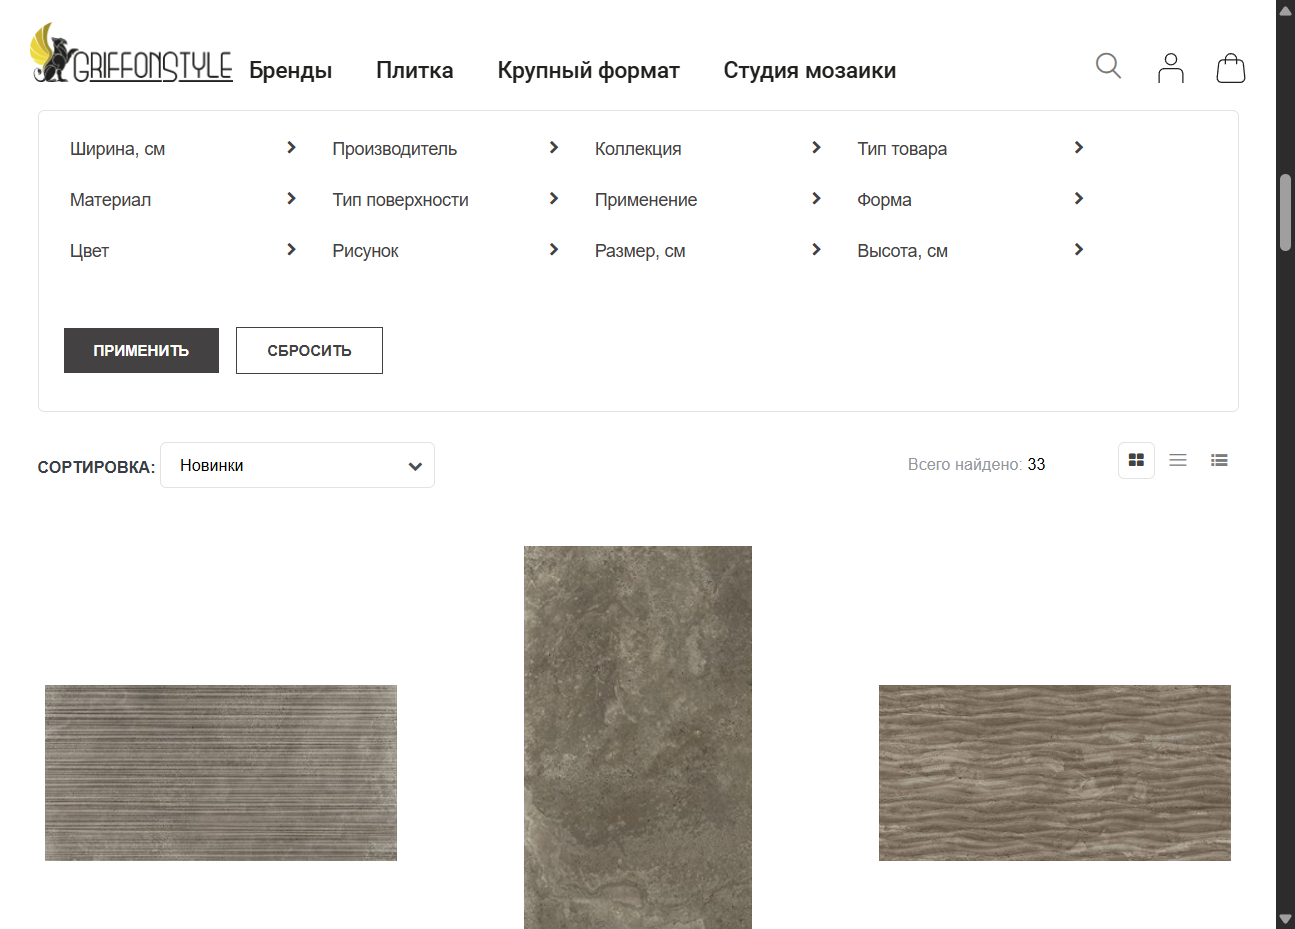
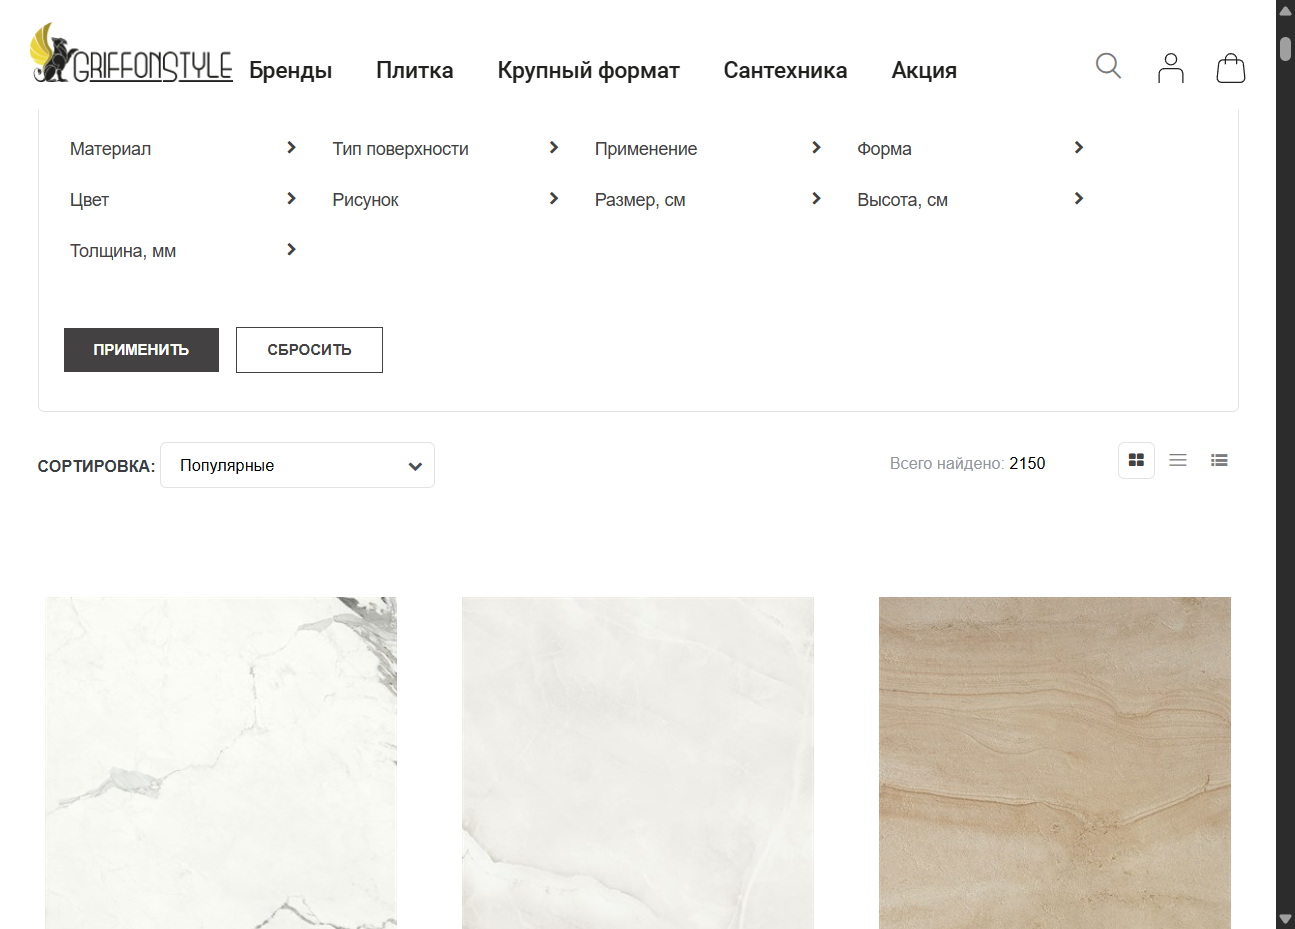
Fif: успешный рефакторинг теста сортировки с учётом зменениний на фронте после редизайна сайта

diff --git a/report.html b/report.html
@@ -7,7 +7,7 @@
   </head>
   <body>
     <h1 id="title">report.html</h1>
-    <p>Report generated on 25-Sep-2026 at 18:07:14 by <a href="https://pypi.python.org/pypi/pytest-html">pytest-html</a>
+    <p>Report generated on 14-Oct-2026 at 12:22:45 by <a href="https://pypi.python.org/pypi/pytest-html">pytest-html</a>
         v4.2.0</p>
     <div id="environment-header">
       <h2>Environment</h2>
@@ -62,7 +62,7 @@
         <h2>Summary</h2>
         <div class="additional-summary prefix">
         </div>
-        <p class="run-count">1 test took 00:00:12.</p>
+        <p class="run-count">1 test took 00:00:18.</p>
         <p class="filter">(Un)check the boxes to filter the results.</p>
         <div class="summary__reload">
           <div class="summary__reload__button hidden" onclick="location.reload()">
@@ -110,7 +110,7 @@
       </thead>
     </table>
   <footer>
-    <div id="data-container" data-jsonblob="{&#34;environment&#34;: {&#34;Python&#34;: &#34;3.13.2&#34;, &#34;Platform&#34;: &#34;Windows-11-10.0.22621-SP0&#34;, &#34;Packages&#34;: {&#34;pytest&#34;: &#34;9.1.1&#34;, &#34;pluggy&#34;: &#34;1.6.0&#34;}, &#34;Plugins&#34;: {&#34;allure-pytest&#34;: &#34;2.16.0&#34;, &#34;html&#34;: &#34;4.2.0&#34;, &#34;metadata&#34;: &#34;3.1.1&#34;}, &#34;JAVA_HOME&#34;: &#34;C:\\Users\\Hidden\\scoop\\apps\\openjdk\\current&#34;}, &#34;tests&#34;: {&#34;tests/unit/test_catalog_sorting.py::test_catalog_sorting_dropdown&#34;: [{&#34;extras&#34;: [], &#34;result&#34;: &#34;Passed&#34;, &#34;testId&#34;: &#34;tests/unit/test_catalog_sorting.py::test_catalog_sorting_dropdown&#34;, &#34;duration&#34;: &#34;00:00:12&#34;, &#34;resultsTableRow&#34;: [&#34;&lt;td class=\&#34;col-result\&#34;&gt;Passed&lt;/td&gt;&#34;, &#34;&lt;td class=\&#34;col-testId\&#34;&gt;tests/unit/test_catalog_sorting.py::test_catalog_sorting_dropdown&lt;/td&gt;&#34;, &#34;&lt;td class=\&#34;col-duration\&#34;&gt;00:00:12&lt;/td&gt;&#34;, &#34;&lt;td class=\&#34;col-links\&#34;&gt;&lt;/td&gt;&#34;], &#34;log&#34;: &#34;No log output captured.&#34;}]}, &#34;renderCollapsed&#34;: [&#34;passed&#34;], &#34;initialSort&#34;: &#34;result&#34;, &#34;title&#34;: &#34;report.html&#34;}"></div>
+    <div id="data-container" data-jsonblob="{&#34;environment&#34;: {&#34;Python&#34;: &#34;3.13.2&#34;, &#34;Platform&#34;: &#34;Windows-11-10.0.22621-SP0&#34;, &#34;Packages&#34;: {&#34;pytest&#34;: &#34;9.1.1&#34;, &#34;pluggy&#34;: &#34;1.6.0&#34;}, &#34;Plugins&#34;: {&#34;allure-pytest&#34;: &#34;2.16.0&#34;, &#34;html&#34;: &#34;4.2.0&#34;, &#34;metadata&#34;: &#34;3.1.1&#34;}, &#34;JAVA_HOME&#34;: &#34;C:\\Users\\Hidden\\scoop\\apps\\openjdk\\current&#34;}, &#34;tests&#34;: {&#34;tests/unit/test_catalog_sorting.py::test_catalog_sorting_dropdown&#34;: [{&#34;extras&#34;: [], &#34;result&#34;: &#34;Passed&#34;, &#34;testId&#34;: &#34;tests/unit/test_catalog_sorting.py::test_catalog_sorting_dropdown&#34;, &#34;duration&#34;: &#34;00:00:18&#34;, &#34;resultsTableRow&#34;: [&#34;&lt;td class=\&#34;col-result\&#34;&gt;Passed&lt;/td&gt;&#34;, &#34;&lt;td class=\&#34;col-testId\&#34;&gt;tests/unit/test_catalog_sorting.py::test_catalog_sorting_dropdown&lt;/td&gt;&#34;, &#34;&lt;td class=\&#34;col-duration\&#34;&gt;00:00:18&lt;/td&gt;&#34;, &#34;&lt;td class=\&#34;col-links\&#34;&gt;&lt;/td&gt;&#34;], &#34;log&#34;: &#34;----------------------------- Captured stdout call -----------------------------\n\u0438\u0449\u0443 \u044d\u043b\u0435\u043c\u0435\u043d\u0442 \u041a\u0440\u0443\u043f\u043d\u044b\u0439 \u0444\u043e\u0440\u043c\u0430\u0442\n\u043d\u0430\u0448\u0451\u043b \u044d\u043b\u0435\u043c\u0435\u043d\u0442 \u041a\u0440\u0443\u043f\u043d\u044b\u0439 \u0444\u043e\u0440\u043c\u0430\u0442\n\u041f\u0440\u043e\u0432\u0435\u0440\u043a\u0430 \u043d\u0430 \u043a\u043b\u0438\u043a \u041a\u0440\u0443\u043f\u043d\u044b\u0439 \u0444\u043e\u0440\u043c\u0430\u0442\n\u041a\u043b\u0438\u043a\u043d\u0443\u043b \u043d\u0430 \u044d\u043b\u0435\u043c\u0435\u043d\u0442 \u041a\u0440\u0443\u043f\u043d\u044b\u0439 \u0444\u043e\u0440\u043c\u0430\u0442\n\u041f\u0435\u0440\u0435\u0445\u043e\u0434 \u043d\u0430 \u0432\u043a\u043b\u0430\u0434\u043a\u0443 &amp;#x27;\u041a\u0440\u0443\u043f\u043d\u044b\u0439 \u0444\u043e\u0440\u043c\u0430\u0442&amp;#x27; \u0432\u044b\u043f\u043e\u043b\u043d\u0435\u043d\n\u0438\u0449\u0443 \u044d\u043b\u0435\u043c\u0435\u043d\u0442 .catalog-title h1\n\u043d\u0430\u0448\u0451\u043b \u044d\u043b\u0435\u043c\u0435\u043d\u0442 .catalog-title h1\n\u0438\u0449\u0443 \u044d\u043b\u0435\u043c\u0435\u043d\u0442 Sorting\n\u043d\u0430\u0448\u0451\u043b \u044d\u043b\u0435\u043c\u0435\u043d\u0442 Sorting\n\u041f\u0440\u043e\u043a\u0440\u0443\u0442\u043a\u0430 \u043a \u044d\u043b\u0435\u043c\u0435\u043d\u0442\u0443 \u0441\u043e\u0440\u0442\u0438\u0440\u043e\u0432\u043a\u0438\n\u0438\u0449\u0443 \u044d\u043b\u0435\u043c\u0435\u043d\u0442 Sorting\n\u043d\u0430\u0448\u0451\u043b \u044d\u043b\u0435\u043c\u0435\u043d\u0442 Sorting\n\u041f\u0440\u043e\u0432\u0435\u0440\u043a\u0430 \u043d\u0430 select Sorting\n\u0423\u0441\u043f\u0435\u0448\u043d\u043e \u0432\u044b\u0431\u0440\u0430\u043d\u043e \u0437\u043d\u0430\u0447\u0435\u043d\u0438\u0435 DescByPopular \u0432 \u044d\u043b\u0435\u043c\u0435\u043d\u0442\u0435 Sorting\n\u0438\u0449\u0443 \u044d\u043b\u0435\u043c\u0435\u043d\u0442 Sorting\n\u043d\u0430\u0448\u0451\u043b \u044d\u043b\u0435\u043c\u0435\u043d\u0442 Sorting\n\u0422\u0435\u043a\u0443\u0449\u0435\u0435 \u0437\u043d\u0430\u0447\u0435\u043d\u0438\u0435 \u0432 ID=&amp;#x27;Sorting&amp;#x27;: &amp;#x27;DescByPopular&amp;#x27;\n\u0421\u043a\u0440\u0438\u043d\u0448\u043e\u0442 106 \u0441\u043e\u0445\u0440\u0430\u043d\u0451\u043d\n&#34;}]}, &#34;renderCollapsed&#34;: [&#34;passed&#34;], &#34;initialSort&#34;: &#34;result&#34;, &#34;title&#34;: &#34;report.html&#34;}"></div>
     <script>
       (function(){function r(e,n,t){function o(i,f){if(!n[i]){if(!e[i]){var c="function"==typeof require&&require;if(!f&&c)return c(i,!0);if(u)return u(i,!0);var a=new Error("Cannot find module '"+i+"'");throw a.code="MODULE_NOT_FOUND",a}var p=n[i]={exports:{}};e[i][0].call(p.exports,function(r){var n=e[i][1][r];return o(n||r)},p,p.exports,r,e,n,t)}return n[i].exports}for(var u="function"==typeof require&&require,i=0;i<t.length;i++)o(t[i]);return o}return r})()({1:[function(require,module,exports){
 const { getCollapsedCategory, setCollapsedIds } = require('./storage.js')

diff --git a/tests/unit/test_catalog_sorting.py b/tests/unit/test_catalog_sorting.py
@@ -8,25 +8,25 @@ import time
 @allure.story("Проверка работы выпадающего списка сортировки в каталоге")
 def test_catalog_sorting_dropdown(start):
     driver=start
-    with allure.step("Переход на вкладку 'Плитка'"):
-        toClick(driver,By.LINK_TEXT,"Плитка")
-        print("Переход на вкладку 'Плитка' выполнен")
-        time.sleep(1)
+    with allure.step("Переход на вкладку 'Крупный формат'"):
+        toClick(driver,By.LINK_TEXT,"Крупный формат")
+        print("Переход на вкладку 'Крупный формат' выполнен")
+        time.sleep(3)
         actual_url=driver.current_url
-        assert "/podbor-plitki" in actual_url
+        assert "/krupnyi-format" in actual_url
         h1_title=toFind(driver,By.CSS_SELECTOR,".catalog-title h1")
         assert h1_title.is_displayed()==True
-    with allure.step("Переход к сортировке и выбору 'Новинки' в селекторе"):
+    with allure.step("Переход к сортировке и выбору 'Популярные' в селекторе"):
         sorting_selector=toFind(driver,By.ID,"Sorting")
         print("Прокрутка к элементу сортировки")
         driver.execute_script("arguments[0].scrollIntoView({block: 'center'});", sorting_selector)
-        toSelect(driver,By.ID,"Sorting","DescByAddingDate")
+        toSelect(driver,By.ID,"Sorting","DescByPopular")
         time.sleep(2)
     with allure.step("Проверка что значение в селекторе успешно изменилось"):
         sorting_selector=toFind(driver,By.ID,"Sorting")
         actual_value=sorting_selector.get_attribute("value")
         print(f"Текущее значение в ID='Sorting': '{actual_value}'")
-        assert actual_value=="DescByAddingDate", \
+        assert actual_value=="DescByPopular", \
             f"Ошибка! Сортировка не переключилась на 'Новинки'. Получено: '{actual_value}'"
         assert getScreen(driver,106)
 
